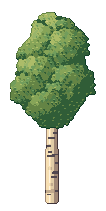
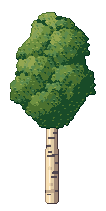
Woodland: slim trees stand clear of bigger crowns (check:kit rule; two birches become a holly and a bush, a slim beech an oak), tree-5 off the river bank, no per-column jitter in the river's sway
Claude-Session: https://claude.ai/code/session_01UudrmtYkicLNgZeuSjvjrK

diff --git a/scripts/art/native/check.py b/scripts/art/native/check.py
@@ -167,7 +167,7 @@ def crowns() -> list:
     import numpy as np
     from PIL import Image
     from scipy import ndimage as ndi
-    CROWN_MIN, OVER_MAX, COLOUR_MIN = 0.4, 0.3, 12.0
+    CROWN_MIN, OVER_MAX, COLOUR_MIN, SLIM_EDGE_MAX = 0.4, 0.3, 12.0, 0.25
     bad = []
     for kp in sorted(glob.glob(os.path.join(ROOT, 'game', 'zones', '*', 'kit.json'))):
         kit = json.load(open(kp))
@@ -243,6 +243,24 @@ def crowns() -> list:
             if t_ > 0.3 and c_ < CROWN_MIN:
                 bad.append(f'{os.path.basename(zdir)}/{oid} ({kind}): its trunk shows ({100 * t_:.0f} %) but only '
                            f'{100 * c_:.0f} % of its crown does')
+            # a slim tree (a birch, a sapling: its trunk under a sixth of its crown's width) must stand
+            # clear of the bigger crowns: when much of its crown's outline runs against another tree's
+            # crown, the two read as one and its pale trunk as a bare pole under someone else's crown
+            ys, xs = np.nonzero(green)
+            gy, gx = ys + Y0, xs + X0
+            ok = (gy >= 0) & (gy < gh) & (gx >= 0) & (gx < gw)
+            mine = np.zeros((gh, gw), bool)
+            mine[gy[ok], gx[ok]] = owner[gy[ok], gx[ok]] == i
+            tcols = np.nonzero(trunk.any(0))[0]
+            gcols = np.nonzero(green.any(0))[0]
+            slim = len(tcols) and len(gcols) and (tcols.max() - tcols.min() + 1) < (gcols.max() - gcols.min() + 1) / 6
+            if slim and t_ > 0.3 and mine.sum() > 50:
+                edge = mine & ~ndi.binary_erosion(mine)
+                other = ndi.binary_dilation(mine, iterations=3) & ~mine & (crown_owner >= 0) & (owner != i)
+                share = (ndi.binary_dilation(other, iterations=1) & edge).sum() / max(1, edge.sum())
+                if share > SLIM_EDGE_MAX:
+                    bad.append(f'{os.path.basename(zdir)}/{oid} ({kind}): a slim tree whose crown runs into another crown along '
+                               f'{100 * share:.0f} % of its outline, so its trunk reads as a bare pole; stand it clear')
     return bad
 
 

diff --git a/scripts/art/native/screen.py b/scripts/art/native/screen.py
@@ -324,8 +324,7 @@ def water_mask_hd(plan: dict, W: int, H: int) -> np.ndarray:
     for X in range(x_a, up.shape[1]):
         xw = X / D
         fade = min(1.0, (xw - x_a / D) / 5.0)
-        hb = ((X * 2654435761) >> 7) & 0xff
-        sh = fade * D * (2.2 * np.sin(xw / 13.0 + 0.8) + 2.0 * np.sin(xw / 6.1 + 2.1)) + (hb % 3 - 1) * 0.4
+        sh = fade * D * (2.2 * np.sin(xw / 13.0 + 0.8) + 2.0 * np.sin(xw / 6.1 + 2.1))
         up[y_a:y_b, X] = ndi.shift(up[y_a:y_b, X], sh, order=1, mode='nearest')
     soft = ndi.gaussian_filter(up, 0.9 * D)
     # a bitten, uneven edge (roots, stones, slumped turf): a small noise on the soft edge so a
